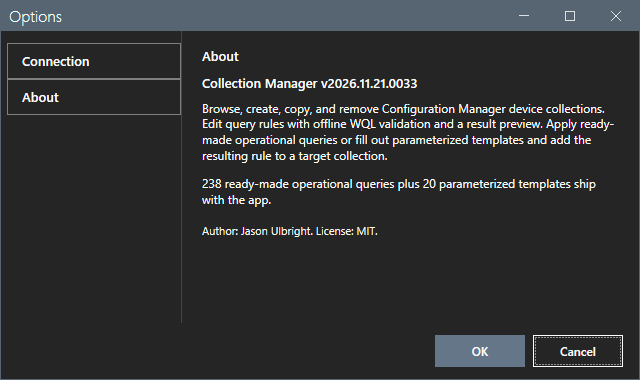
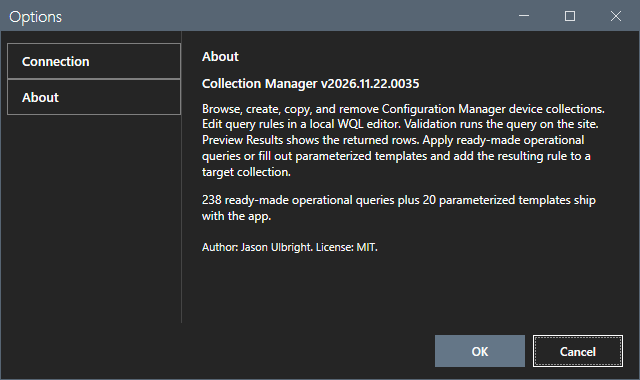
State that WQL validation runs on the site (#64)

Changed region(s): [[0.3125, 0.2895, 0.9688, 0.6658], [0.5938, 0.2026, 0.6562, 0.2316]]

diff --git a/MainWindow.xaml b/MainWindow.xaml
@@ -638,7 +638,7 @@
                         <Border Grid.Row="7" Padding="0,12,0,0">
                             <WrapPanel Orientation="Horizontal">
                                 <Button x:Name="btnValidateWql" Content="Validate Query"  Style="{StaticResource SquareInlineButtonStyle}" MinWidth="130" Margin="0,0,8,8"
-                                        ToolTip="Run a syntax check on the WQL editor contents"/>
+                                        ToolTip="Run the WQL of the editor on the site to check it"/>
                                 <Button x:Name="btnPreviewWql"  Content="Preview Results" Style="{StaticResource SquareInlineButtonStyle}" MinWidth="130" Margin="0,0,8,8"
                                         ToolTip="Run the WQL on the SMS Provider and show the matching devices."/>
                                 <Button x:Name="btnAddRule"    Content="Add Rule"    Style="{StaticResource SquareInlineButtonStyle}" MinWidth="100" Margin="0,0,8,8"

diff --git a/README.md b/README.md
@@ -5,7 +5,7 @@
 [![Platform](https://img.shields.io/badge/platform-Windows-0078D4)](#requirements)
 [![License](https://img.shields.io/github/license/jasonulbright/collection-manager)](LICENSE)
 
-Manage Configuration Manager device collections with an offline WQL editor. Bypass the slow console query editor -- load all collections into a local grid, edit WQL queries in a fast monospace editor, validate, preview results, and apply changes in bulk.
+Manage Configuration Manager device collections with a local WQL editor. Bypass the slow console query editor -- load all collections into a local grid, edit WQL queries in a fast monospace editor, validate and preview results (validation runs the query on the site), and apply changes in bulk.
 
 Ships with a template library: 238 ready-made operational queries and 20 parameterized WQL templates.
 
@@ -63,7 +63,7 @@ The shell uses a sidebar layout with three views and an Options dialog:
 
 1. Connect to the site and switch to **WQL Editor** view.
 2. Enter a collection ID and select **Open by ID**, or select a target from the tree after a full refresh.
-3. Type or paste the WQL. Select **Validate Query** to check the syntax.
+3. Type or paste the WQL. Select **Validate Query** to run the query on the site and check it.
 4. Select **Preview Results** to count matches.
 5. Type a rule name and select **Add Rule**.
 

diff --git a/CHANGELOG.md b/CHANGELOG.md
@@ -2,6 +2,10 @@
 
 ## [Unreleased]
 
+### Fixed
+
+- Correct the About and description text: the WQL editor is local, validation runs on the site.
+
 ## [2026.11.22.0035] - 2026-11-22
 
 ## 1 change: reports and site settings are kept per site
